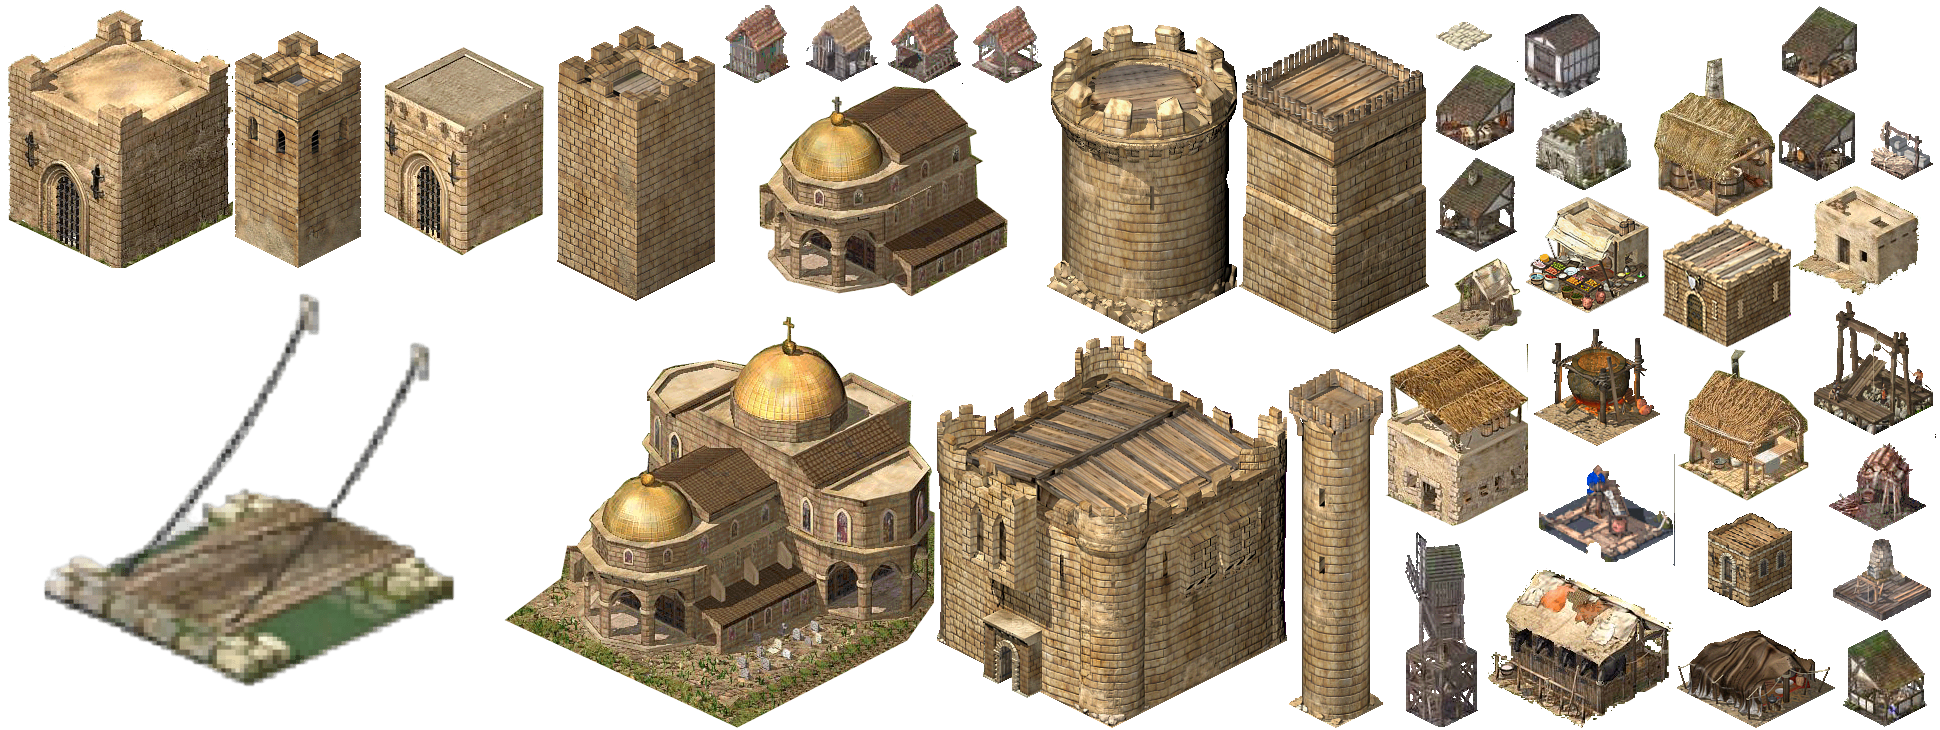
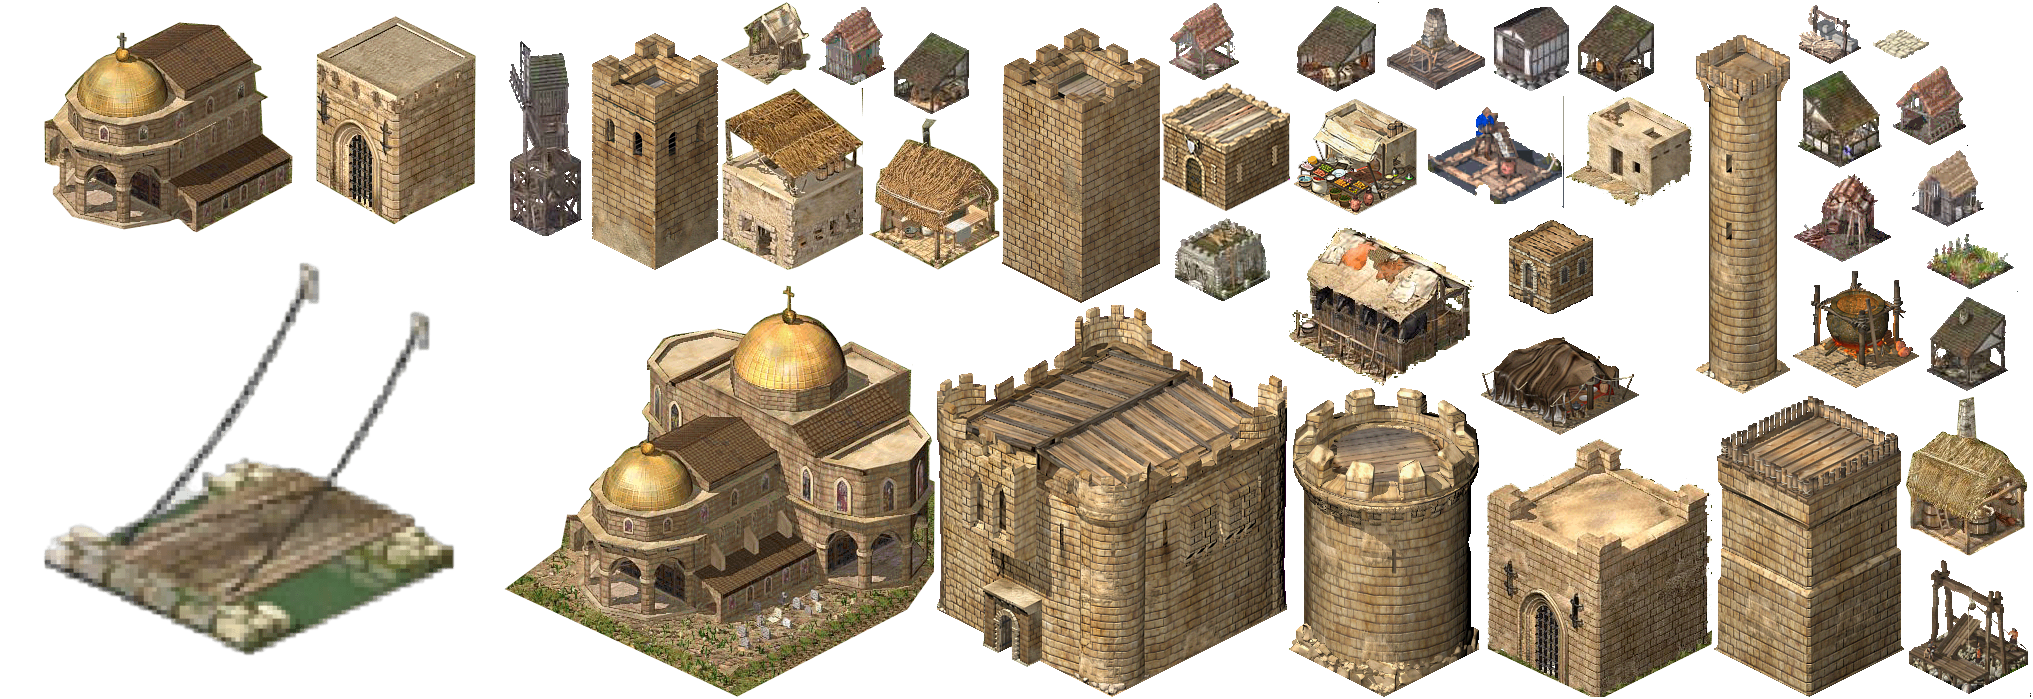
fixing graphics...

diff --git a/core/src/org/group16/GameGraphics/BuildingGraphics.java b/core/src/org/group16/GameGraphics/BuildingGraphics.java
@@ -20,29 +20,29 @@ public enum BuildingGraphics {
     MILL("MILL", .6f, .5f, .1f, 0, 0),//TESTED
     IRON_MINE("IRON_MINE", .6f, .15f, -.1f, 0, 0),//TESTED
     MARKET("MARKET", .5f, .2f, 0, 0, 0), //TESTED
-    OX_TETHER("OX_TETHER", 1, .4f, -.05f, .35f, .3f),
-    PITCH_RIG("PITCH_RIG", 1, .4f, -.05f, .35f, .3f),
-    QUARRY("QUARRY", 1, .4f, -.05f, .35f, .3f),
-    STOCKPILE("STOCKPILE", 0.4f, 0.1f, -0, .1f, .3f),
-    WOOD_CUTTER("WOOD_CUTTER", 1, .4f, -.05f, .35f, .3f),
-    HOVEL("HOVEL", 1, .4f, -.05f, .35f, .3f),
-    CHURCH("CHURCH", 1, .4f, -.05f, .35f, .3f),
-    CATHEDRAL("CATHEDRAL", 1, .4f, -.05f, .35f, .3f),
-    ARMOURER("ARMOURER", 1, .4f, -.05f, .35f, .3f),
-    BLACKSMITH("BLACKSMITH", 1, .4f, -.05f, .35f, .3f),
-    FLETCHER("FLETCHER", 1, .4f, -.05f, .35f, .3f),
-    POLE_TURNER("POLE_TURNER", 1, .4f, -.05f, .35f, .3f),
-    OIL_SMELTER("OIL_SMELTER", 1, .4f, -.05f, .35f, .3f),
-    STABLE("STABLE", 1, .4f, -.05f, .35f, .3f),
-    APPLE_ORCHARD("APPLE_ORCHARD", 1, .4f, -.05f, .35f, .3f),
-    DIARY_FARMER("DIARY_FARMER", 1, .4f, -.05f, .35f, .3f),
-    HOPS_FARMER("HOPS_FARMER", 1, .4f, -.05f, .35f, .3f),
-    HUNTER_POST("HUNTER_POST", 1, .4f, -.05f, .35f, .3f),
-    WHEAT_FARMER("WHEAT_FARMER", 1, .4f, -.05f, .35f, .3f),
-    BAKERY("BAKERY", 1, .4f, -.05f, .35f, .3f),
-    BREWER("BREWER", 1, .4f, -.05f, .35f, .3f),
-    GRANARY("GRANARY", 0.4f, .4f, -.05f, .35f, .3f),
-    UNEMPLOYED_PLACE("STOCKPILE", 0.4f, .1f, 0f, .1f, .3f),
+    OX_TETHER("OX_TETHER", .4f, .12f, -.05f, 0, 0),//TESTED
+    PITCH_RIG("PITCH_RIG", .4f, .12f, -.05f, 0, 0),//TESTED
+    QUARRY("QUARRY", .7f, .25f, -.05f, 0, 0),//TESTED
+    STOCKPILE("STOCKPILE", 0.5f, 0.05f, -0.1f, 0, 0),//TESTED
+    WOOD_CUTTER("WOOD_CUTTER", .4f, .15f, -.05f, 0, 0),//TESTED
+    HOVEL("HOVEL", .5f, .15f, -.05f, 0, 0),//TESTED
+    CHURCH("CHURCH", 1, .3f, -.15f, 0, 0),//TESTED
+    CATHEDRAL("CATHEDRAL", 1, .3f, -.15f, 0, 0),//TESTED
+    ARMOURER("ARMOURER", .4f, .15f, -.05f, 0, 0),//TESTED
+    BLACKSMITH("BLACKSMITH", .4f, .15f, -.05f, 0, 0),//TESTED
+    FLETCHER("FLETCHER", .4f, .15f, -.05f, 0, 0),//TESTED
+    POLE_TURNER("POLE_TURNER", .4f, .15f, -.05f, 0, 0),//TESTED
+    OIL_SMELTER("OIL_SMELTER", .6f, .2f, -.05f, 0, 0),//TESTED
+    STABLE("STABLE", .7f, .2f, -.15f, 0, 0),//TESTED
+    APPLE_ORCHARD("APPLE_ORCHARD", .4f, .15f, -.05f, 0, 0),//TESTED
+    DIARY_FARMER("DIARY_FARMER", .4f, .15f, -.05f, 0, 0),//TESTED
+    HOPS_FARMER("HOPS_FARMER", .4f, .15f, -.05f, 0, 0),//TESTED
+    HUNTER_POST("HUNTER_POST", .5f, .15f, -.05f, 0, 0),//TESTED
+    WHEAT_FARMER("WHEAT_FARMER", .5f, .15f, -.05f, 0, 0),//TESTED
+    BAKERY("BAKERY", .5f, .2f, -.05f, 0, 0),//TESTED
+    BREWER("BREWER", .4f, .2f, -.05f, 0, 0),//TESTED
+    GRANARY("GRANARY", .5f, .15f, -.05f, 0, 0),//TESTED
+    UNEMPLOYED_PLACE("UNEMPLOYED_PLACE", 0.5f, .1f, -.1f, 0, 0),
 
 
     ;

diff --git a/desktop/src/org/group16/TestingLauncher.java b/desktop/src/org/group16/TestingLauncher.java
@@ -24,7 +24,7 @@ public class TestingLauncher {
 //        GameSocket.initSocket(Server.host, Server.gamePort);
         config.setWindowIcon("icons/game_icon.png");
         new Lwjgl3Application(new TestBuildingGraphics(
-                BuildingGraphics.IRON_MINE,
+                BuildingGraphics.UNEMPLOYED_PLACE,
                 0)
                 , config);
     }
